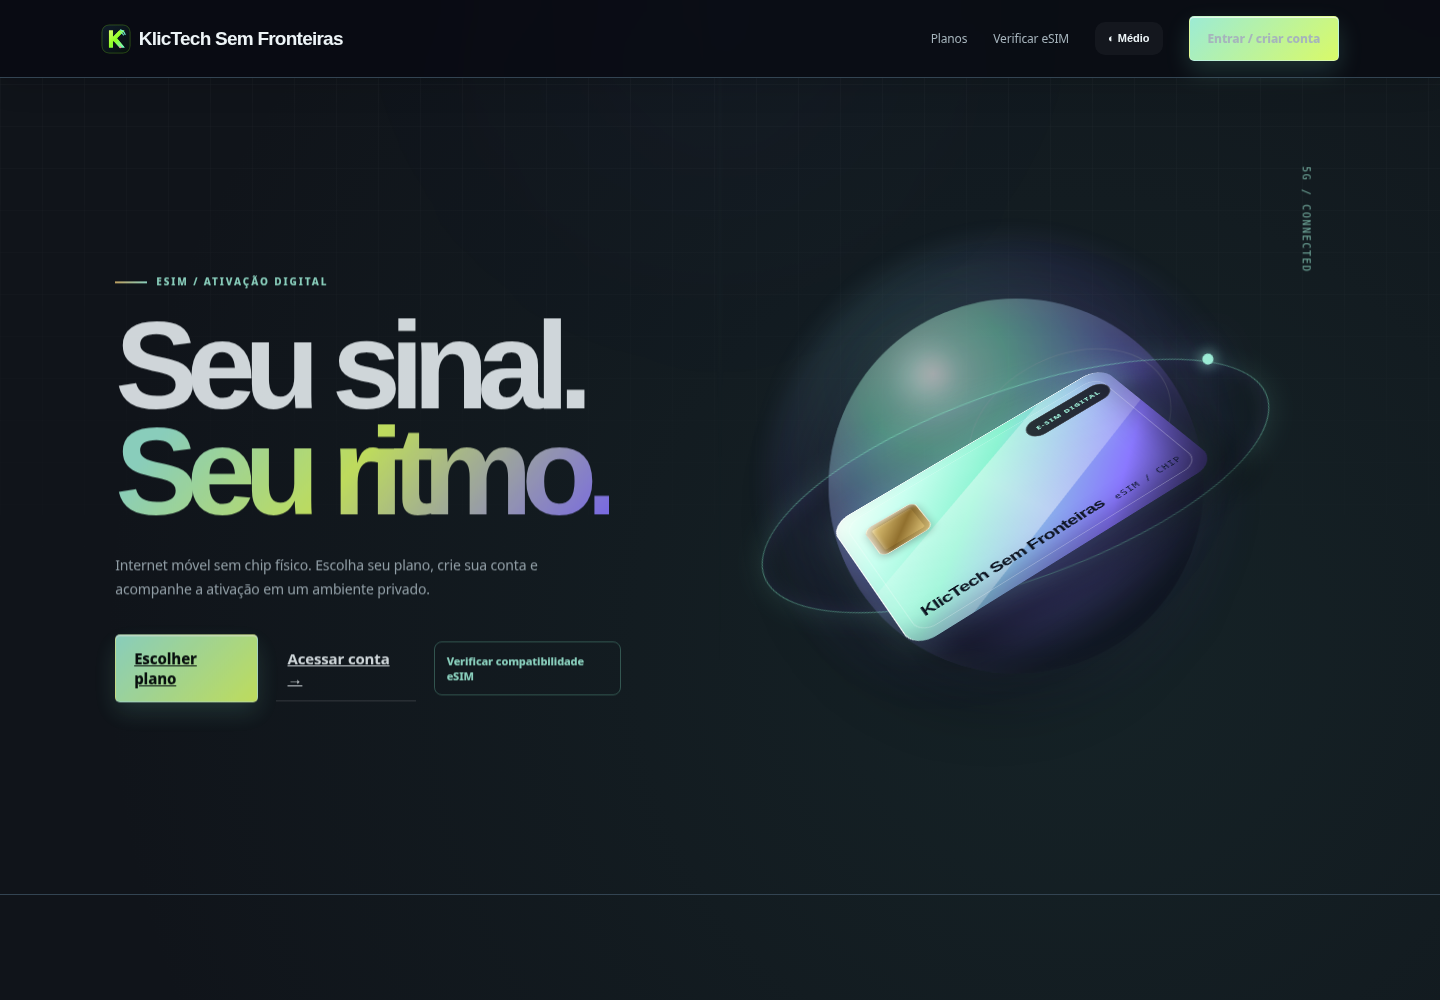
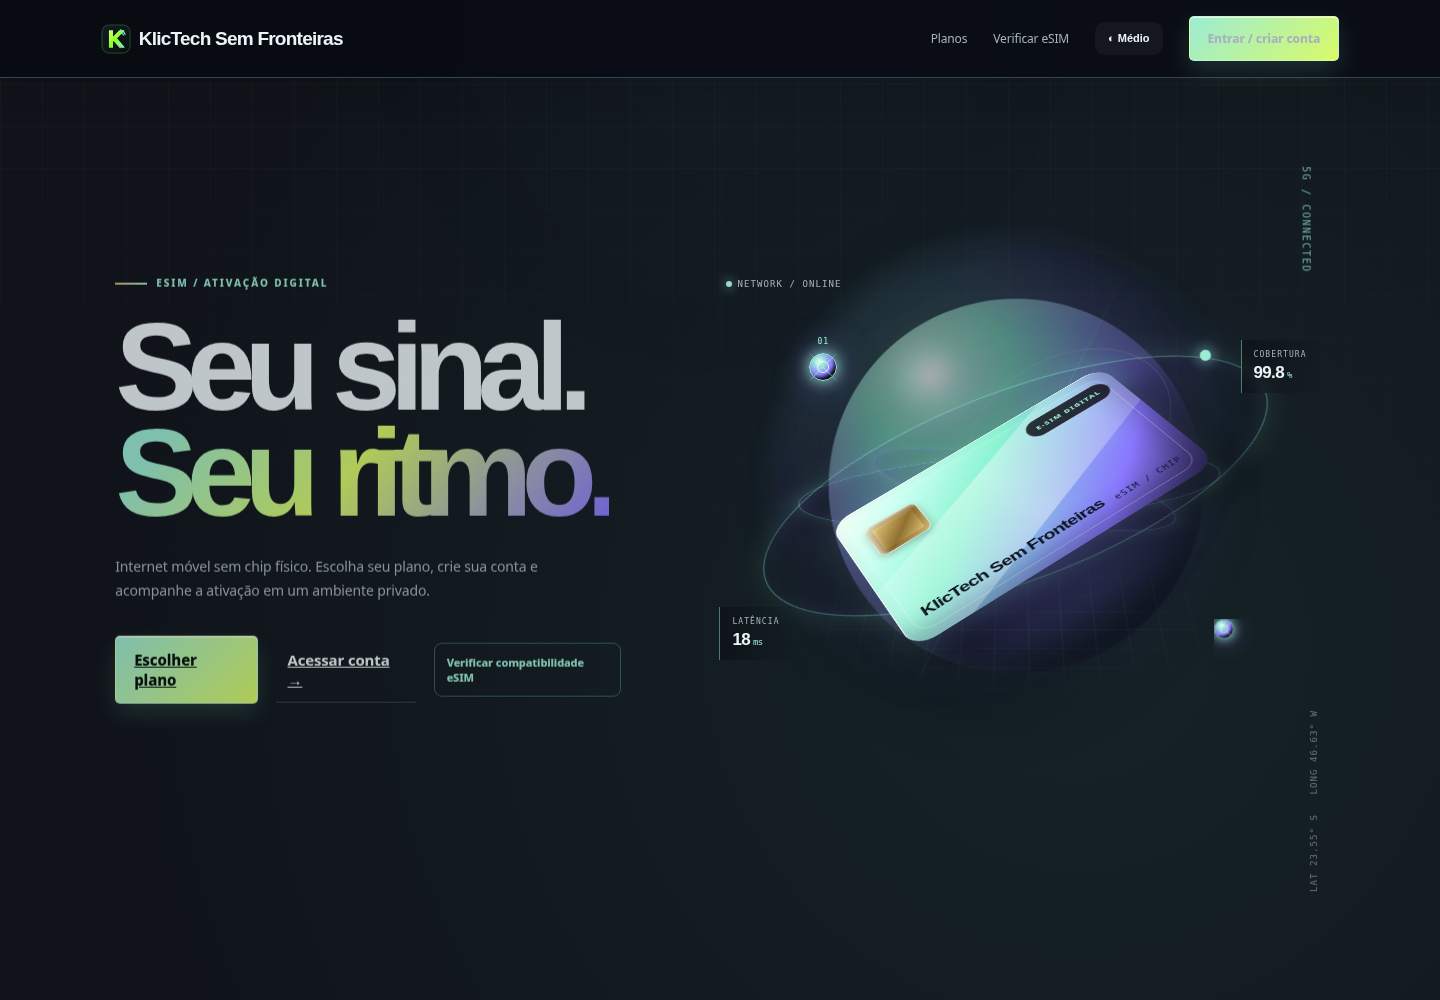
style: restaurar detalhes 3d originais

diff --git a/static/js/legacy-public.js b/static/js/legacy-public.js
@@ -118,3 +118,109 @@ document.addEventListener('click', (event) => {
   if (action) { if (action.endsWith('-backdrop') && event.target !== event.currentTarget) return; event.preventDefault(); legacyNavigate(action, event.target.closest('button')); }
 });
 document.addEventListener('keydown', (event) => { if (event.key === 'Escape') { closeClientModal(); closeWallet(); } });
+(() => {
+  document.documentElement.classList.add('js-menu');
+  const reduceMotion = window.matchMedia('(prefers-reduced-motion: reduce)').matches;
+  const finePointer = window.matchMedia('(pointer: fine)').matches;
+
+  const nav = document.querySelector('.kt-public-nav');
+  const links = document.querySelector('.kt-public-links');
+  const publicToggle = document.querySelector('#public-menu-toggle');
+  window.togglePublicMenu = () => {
+    const open = !nav?.classList.contains('kt-menu-open');
+    nav?.classList.toggle('kt-menu-open', open);
+    publicToggle?.setAttribute('aria-expanded', String(open));
+    publicToggle?.setAttribute('aria-label', open ? 'Fechar menu' : 'Abrir menu');
+    if (publicToggle) publicToggle.querySelector('span[aria-hidden="true"]').textContent = open ? '×' : '☰';
+  };
+  if (nav && links && publicToggle) {
+    links.querySelectorAll('a').forEach((link) => link.addEventListener('click', () => {
+      nav.classList.remove('kt-menu-open');
+      publicToggle.setAttribute('aria-expanded', 'false');
+      publicToggle.setAttribute('aria-label', 'Abrir menu');
+      publicToggle.querySelector('span[aria-hidden="true"]').textContent = '☰';
+    }));
+  }
+
+  const stage = document.querySelector('.stage');
+  if (stage) {
+    const extras = document.createElement('div');
+    extras.className = 'stage-3d-extras'; extras.setAttribute('aria-hidden', 'true');
+    extras.innerHTML = '<div class="scene-grid"></div><div class="energy-ring ring-a"></div><div class="energy-ring ring-b"></div><div class="satellite satellite-a"><i></i><b>01</b></div><div class="satellite satellite-b"><i></i><b>02</b></div><div class="signal-beam"></div><div class="hud-label hud-top"><span class="hud-dot"></span>NETWORK / ONLINE</div><div class="hud-label hud-bottom">LAT 23.55° S&nbsp;&nbsp; LONG 46.63° W</div><div class="hud-metric metric-a"><small>LATÊNCIA</small><strong>18<em>ms</em></strong></div><div class="hud-metric metric-b"><small>COBERTURA</small><strong>99.8<em>%</em></strong></div>';
+    stage.appendChild(extras);
+  }
+
+  // A living dashboard layer is created only once the customer area exists.
+  const appHome = document.querySelector('#app-home');
+  if (appHome) {
+    const ambient = document.createElement('div');
+    ambient.className = 'client-ambient'; ambient.setAttribute('aria-hidden', 'true');
+    ambient.innerHTML = '<div class="ambient-glow"></div><div class="ambient-orbit ambient-orbit-a"></div><div class="ambient-orbit ambient-orbit-b"></div><div class="ambient-core"><span></span></div><div class="ambient-particle p1"></div><div class="ambient-particle p2"></div><div class="ambient-particle p3"></div><div class="live-chip"><i></i> CONEXÃO ATIVA</div>';
+    appHome.prepend(ambient);
+    const depth = document.createElement('div');
+    depth.className = 'client-depth-scene'; depth.setAttribute('aria-hidden', 'true');
+    depth.innerHTML = '<span class="depth-ring"></span><span class="depth-ring"></span><span class="depth-node"></span>';
+    appHome.prepend(depth);
+    const hero = appHome.querySelector('.app-hero');
+    if (hero) hero.classList.add('client-hero-layer');
+  }
+
+  const revealTargets = document.querySelectorAll('.plans, .compatibility-section, .info-card, .story, .step-item, .faq, .faq details, .app-stat, .app-order, .app-buy-card, .app-note, .app-profile-card, .client-stat, .client-purchase-card');
+  revealTargets.forEach((element, index) => {
+    element.dataset.reveal = '';
+    if (element.classList.contains('info-card') || element.classList.contains('step-item') || element.matches('.faq details') || element.matches('.app-stat, .client-stat')) {
+      element.style.transitionDelay = `${Math.min(index % 4, 3) * 55}ms`;
+    }
+  });
+  if (!reduceMotion && 'IntersectionObserver' in window) {
+    const observer = new IntersectionObserver((entries, instance) => {
+      entries.forEach((entry) => { if (entry.isIntersecting) { entry.target.classList.add('is-visible'); instance.unobserve(entry.target); } });
+    }, { threshold: 0.12, rootMargin: '0px 0px -6% 0px' });
+    revealTargets.forEach((element) => observer.observe(element));
+  } else revealTargets.forEach((element) => element.classList.add('is-visible'));
+
+  if (reduceMotion) return;
+  if (!reduceMotion) {
+    let ticking = false;
+    const updateScrollScene = () => {
+      const y = window.scrollY || 0;
+      const viewport = Math.max(window.innerHeight, 1);
+      const progress = Math.min(1, Math.max(0, y / (document.documentElement.scrollHeight - viewport || 1)));
+      document.documentElement.style.setProperty('--page-progress', progress.toFixed(3));
+      if (stage) {
+        stage.style.setProperty('--scroll-tilt', `${(progress * 16 - 8).toFixed(2)}deg`);
+        stage.style.setProperty('--scroll-depth', `${(progress * 18).toFixed(2)}px`);
+      }
+      const clientApp = document.querySelector('.client-app');
+      if (clientApp) clientApp.style.setProperty('--client-scroll', `${(progress * 22).toFixed(2)}px`);
+      ticking = false;
+    };
+    window.addEventListener('scroll', () => { if (!ticking) { window.requestAnimationFrame(updateScrollScene); ticking = true; } }, { passive: true });
+    updateScrollScene();
+  }
+
+  if (!finePointer) return;
+  if (stage) {
+    stage.addEventListener('pointermove', (event) => {
+      const rect = stage.getBoundingClientRect(); const x = (event.clientX - rect.left) / rect.width - .5; const y = (event.clientY - rect.top) / rect.height - .5;
+      stage.style.setProperty('--scene-x', `${x * 18}px`); stage.style.setProperty('--scene-y', `${y * 14}px`); stage.style.setProperty('--scene-rotate', `${x * 4}deg`);
+    });
+    stage.addEventListener('pointerleave', () => { stage.style.setProperty('--scene-x', '0px'); stage.style.setProperty('--scene-y', '0px'); stage.style.setProperty('--scene-rotate', '0deg'); });
+  }
+  const clientArea = document.querySelector('.client-app');
+  if (clientArea) {
+    clientArea.addEventListener('pointermove', (event) => {
+      const rect = clientArea.getBoundingClientRect();
+      clientArea.style.setProperty('--client-x', `${((event.clientX - rect.left) / rect.width - .5) * 16}px`);
+      clientArea.style.setProperty('--client-y', `${((event.clientY - rect.top) / rect.height - .5) * 12}px`);
+    });
+  }
+  document.querySelectorAll('.info-card, .app-stat, .app-order, .app-buy-card, .app-note, .app-profile-card, .client-stat, .client-purchase-card, .kpi').forEach((card) => {
+    card.addEventListener('pointermove', (event) => {
+      const rect = card.getBoundingClientRect(); const x = (event.clientX - rect.left) / rect.width - .5; const y = (event.clientY - rect.top) / rect.height - .5;
+      card.style.setProperty('--mx', `${(x + .5) * 100}%`); card.style.setProperty('--my', `${(y + .5) * 100}%`);
+      card.style.transform = `perspective(900px) rotateY(${x * 4}deg) rotateX(${-y * 3}deg) translateY(-5px) translateZ(4px)`;
+    });
+    card.addEventListener('pointerleave', () => { card.style.transform = ''; });
+  });
+})();

diff --git a/qa/visual-check.md b/qa/visual-check.md
@@ -1,11 +1,11 @@
 # Verificação visual
 
-As capturas finais foram geradas em Chromium headless contra a origem HTTPS pública temporária do sandbox, após restaurar o `templates/index.html` e a camada visual do commit original.
+As capturas finais foram geradas em Chromium headless contra a origem HTTPS pública temporária do sandbox após restaurar o markup, CSS e JavaScript visual originais.
 
-A captura mobile em 390×844 px mostra o cabeçalho compacto, marca KlicTech Sem Fronteiras, menu hambúrguer, esfera orbital com cartão eSIM 3D, hero original, CTA de compatibilidade e ausência de overflow horizontal aparente.
+A captura mobile em 390×844 px mostra o cabeçalho original, menu compacto, esfera orbital, cartão eSIM inclinado, grade de cena, anéis de energia, satélites, HUD de rede/latência/cobertura e partículas, além do hero original sem overflow horizontal.
 
-A captura desktop em 1440×1000 px mostra a navegação horizontal original, hero em duas colunas, composição orbital completa, tipografia grande, gradientes neon, ações originais e espaçamento do design anterior.
+A captura desktop em 1440×1000 px mostra a navegação original, composição orbital completa, grade, anéis, satélites numerados, indicadores de latência/cobertura, sinal conectado, coordenadas, cartão 3D, tipografia e ações originais.
 
-Os estilos foram externalizados para `static/css/legacy-inline.css` e `static/css/legacy-3d.css`; os handlers foram substituídos por `data-legacy-action` e JavaScript externo com CSRF/try-catch.
+Os estilos estão em `static/css/legacy-inline.css` e `static/css/legacy-3d.css`; o comportamento visual está em `static/js/legacy-public.js`. A camada foi externalizada e não usa handlers inline.
 
 Arquivos: `qa/home-mobile.png` e `qa/home-desktop.png`.
